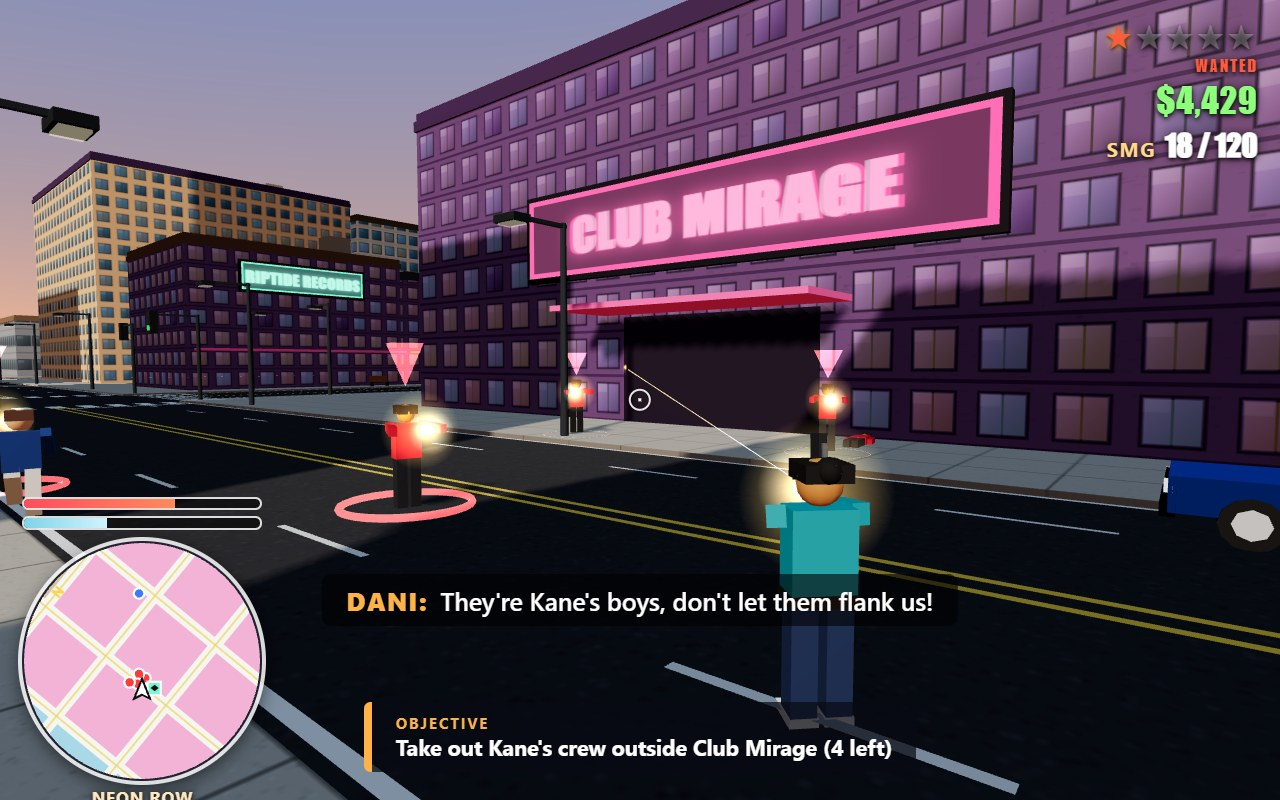
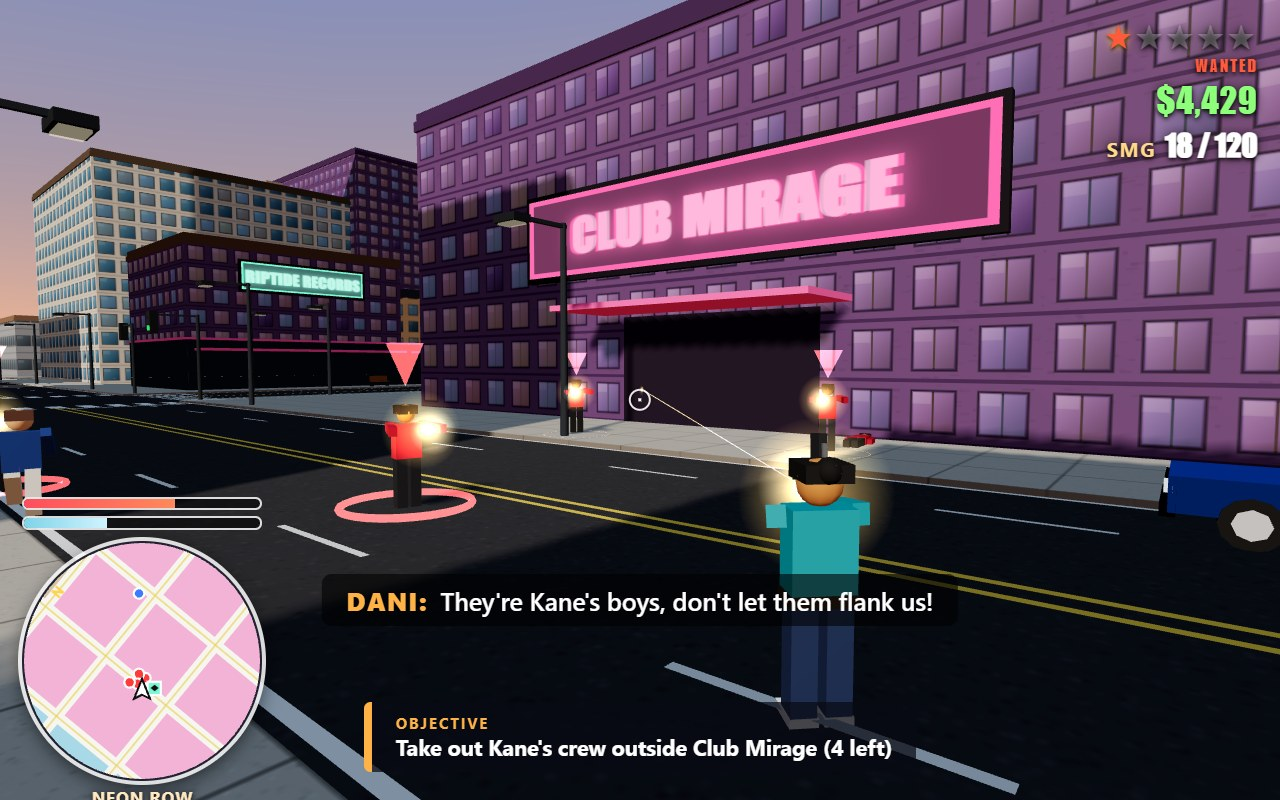
Round 4: per-building wall tints, shopfront ground floors, playtest waits for dialogue

diff --git a/game/src/city/buildings.js b/game/src/city/buildings.js
@@ -12,8 +12,8 @@ import { SLAB_HEIGHT } from './roads.js';
 
 const TILE = { glass: 9, tower: 10, stucco: 7, deco: 8, villa: 6, warehouse: 12, neon: 7 };
 
-/** Four walls (no roof or floor) of a w by h by d box, texture tiled every `tile` metres. */
-function walls(w, h, d, tile, x, y, z) {
+/** Four walls (no roof or floor) of a w by h by d box, texture tiled every `tile` metres, tinted. */
+function walls(w, h, d, tile, x, y, z, tint = '#ffffff') {
   const g = new THREE.BoxGeometry(w, h, d).toNonIndexed();
   const pos = g.attributes.position.array;
   const nor = g.attributes.normal.array;
@@ -37,7 +37,13 @@ function walls(w, h, d, tile, x, y, z) {
   out.setAttribute('normal', new THREE.BufferAttribute(n, 3));
   out.setAttribute('uv', new THREE.BufferAttribute(u, 2));
   out.translate(x, y + h / 2, z);
-  return out;
+  return colorize(out, tint);
+}
+
+/** A slight per-building tint so towers of one style do not look stamped from the same mould. */
+function wallTint(rng) {
+  const c = new THREE.Color().setHSL(rng.range(0, 1), rng.range(0.05, 0.25), rng.range(0.82, 0.98));
+  return `#${c.getHexString()}`;
 }
 
 export function buildBuildings(layout, textures) {
@@ -61,7 +67,12 @@ export function buildBuildings(layout, textures) {
   let billboardIndex = 0;
 
   const addBuilding = (style, x, z, w, d, h, roofColor, opts = {}) => {
-    byStyle[style].push(walls(w, h, d, TILE[style], x, y0, z));
+    byStyle[style].push(walls(w, h, d, TILE[style], x, y0, z, opts.tint || '#ffffff'));
+    if (opts.shopfront) {
+      // A dark glass ground floor with a slim awning: the street level reads as shops and lobbies.
+      details.push(box(w + 0.16, 4.2, d + 0.16, '#1f2d3a', x, y0 + 2.1, z));
+      details.push(box(w + 0.6, 0.18, d + 0.6, opts.shopfront, x, y0 + 4.3, z));
+    }
     details.push(box(w + 0.2, 0.5, d + 0.2, roofColor, x, y0 + h + 0.25, z));
     details.push(box(w, 0.4, 0.5, opts.parapet || roofColor, x, y0 + h + 0.7, z - d / 2 + 0.25));
     details.push(box(w, 0.4, 0.5, opts.parapet || roofColor, x, y0 + h + 0.7, z + d / 2 - 0.25));
@@ -149,8 +160,9 @@ export function buildBuildings(layout, textures) {
       const d = rng.range(30, 44);
       const h = rng.range(60, 125);
       details.push(box(b.w - 6, 6, b.d - 6, '#b5ada0', b.cx, y0 + 3, b.cz));
+      details.push(box(b.w - 5.6, 4.4, b.d - 5.6, '#1f2d3a', b.cx, y0 + 2.2, b.cz));
       obstacles.addBox(b.x0 + 3, b.z0 + 3, b.x1 - 3, b.z1 - 3, 6, 'building');
-      const t = addBuilding(style, b.cx, b.cz, w, d, h, roof, { parapet: '#dde3e8' });
+      const t = addBuilding(style, b.cx, b.cz, w, d, h, roof, { parapet: '#dde3e8', tint: wallTint(rng) });
       t.y = 6;
       roofDetails(rng, t, 'tower');
     } else {
@@ -162,7 +174,7 @@ export function buildBuildings(layout, textures) {
         const h = rng.range(28, 90);
         const x = b.cx + cx * (b.w / 4 - 1);
         const z = b.cz + cz * (b.d / 4 - 1);
-        const t = addBuilding(style, x, z, w, d, h, roof, { parapet: '#dde3e8' });
+        const t = addBuilding(style, x, z, w, d, h, roof, { parapet: '#dde3e8', tint: wallTint(rng), shopfront: rng.pick(['#7fd3e8', '#d9d2c4', '#f6c177']) });
         roofDetails(rng, t, 'tower');
       }
     }
@@ -177,7 +189,7 @@ export function buildBuildings(layout, textures) {
       const x = b.x0 + 2 + shopW * (k + 0.5);
       const h = rng.range(9, 16);
       const style = rng.pick(['neon', 'stucco', 'deco']);
-      const t = addBuilding(style, x, b.z1 - 9, shopW - 0.6, 16, h, rng.pick(['#4b2f5a', '#6b4a3a', '#3b3b44']));
+      const t = addBuilding(style, x, b.z1 - 9, shopW - 0.6, 16, h, rng.pick(['#4b2f5a', '#6b4a3a', '#3b3b44']), { tint: wallTint(rng), shopfront: rng.pick(['#ff6fb5', '#7fd3e8', '#ffb14a']) });
       roofDetails(rng, t, 'low');
       const [name, color] = neonNames[neonIndex % neonNames.length];
       neonIndex += 1;
@@ -190,7 +202,7 @@ export function buildBuildings(layout, textures) {
     for (let k = 0; k < backs; k += 1) {
       const x = b.x0 + 2 + backW * (k + 0.5);
       const h = rng.range(18, 34);
-      const t = addBuilding(rng.pick(['neon', 'stucco', 'tower']), x, b.z0 + 18, backW - 1, 32, h, rng.pick(['#4b2f5a', '#5c4a3a']));
+      const t = addBuilding(rng.pick(['neon', 'stucco', 'tower']), x, b.z0 + 18, backW - 1, 32, h, rng.pick(['#4b2f5a', '#5c4a3a']), { tint: wallTint(rng) });
       roofDetails(rng, t, 'low');
     }
     if (rng.chance(0.4)) addBillboard(b.x0 + 4, b.z0 + 3, Math.PI, rng);
@@ -206,7 +218,7 @@ export function buildBuildings(layout, textures) {
       const z = b.z0 + 3 + hw * (k + 0.5);
       const h = landmark ? rng.range(58, 72) : rng.range(22, 42);
       const colorRoof = rng.pick(['#f08ca0', '#8fd6c9', '#f6d58a', '#f3b48c']);
-      const t = addBuilding(landmark ? 'glass' : 'deco', b.cx + 8, z, landmark ? 30 : 34, landmark ? 36 : hw - 3, h, colorRoof, { parapet: '#fff4e6' });
+      const t = addBuilding(landmark ? 'glass' : 'deco', b.cx + 8, z, landmark ? 30 : 34, landmark ? 36 : hw - 3, h, colorRoof, { parapet: '#fff4e6', tint: wallTint(rng), shopfront: landmark ? null : '#f8f1e4' });
       roofDetails(rng, t, landmark ? 'tower' : 'low');
       details.push(box(10, 0.4, hw - 10, '#4fb5d9', b.x0 + 8, y0 + 0.2, z));
       details.push(box(14, 0.3, hw - 6, '#e9d7b4', b.x0 + 8, y0 + 0.05, z));
@@ -456,7 +468,7 @@ export function buildBuildings(layout, textures) {
     if (parts.length === 0) continue;
     const tex = textures.windows[style];
     const material = new THREE.MeshStandardMaterial({
-      map: tex.map, emissiveMap: tex.emissiveMap, emissive: new THREE.Color('#ffffff'), emissiveIntensity: 0.0,
+      map: tex.map, emissiveMap: tex.emissiveMap, emissive: new THREE.Color('#ffffff'), emissiveIntensity: 0.0, vertexColors: true,
       roughness: style === 'glass' ? 0.35 : 0.75, metalness: style === 'glass' ? 0.25 : 0.05,
     });
     const mesh = new THREE.Mesh(merge(parts), material);
